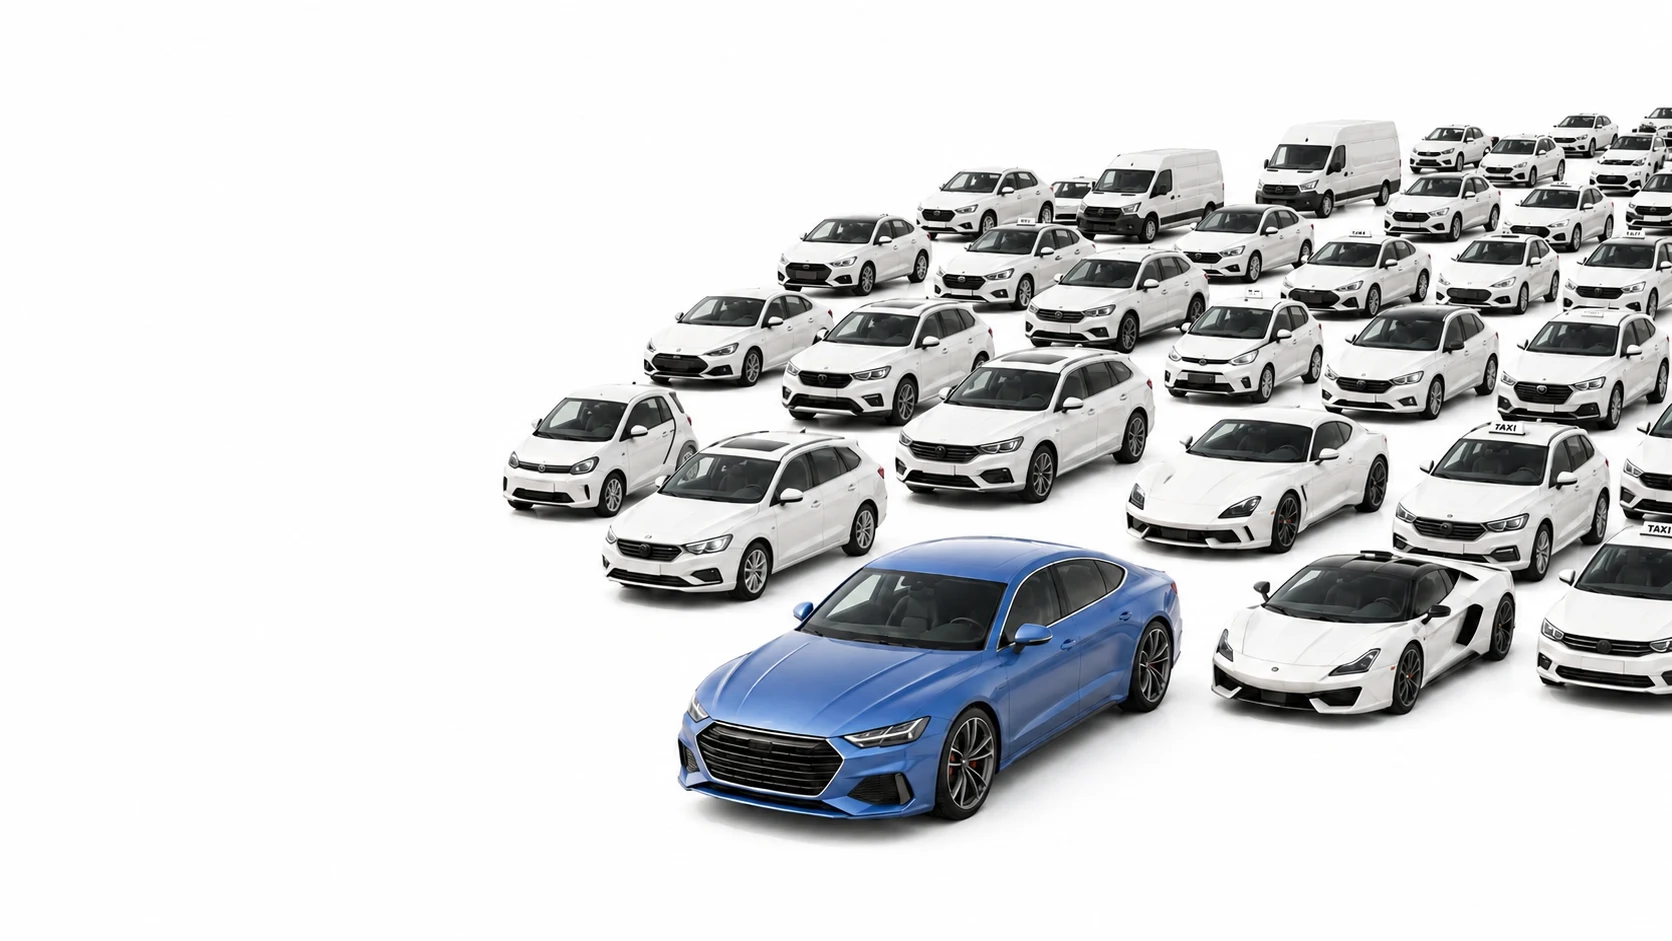
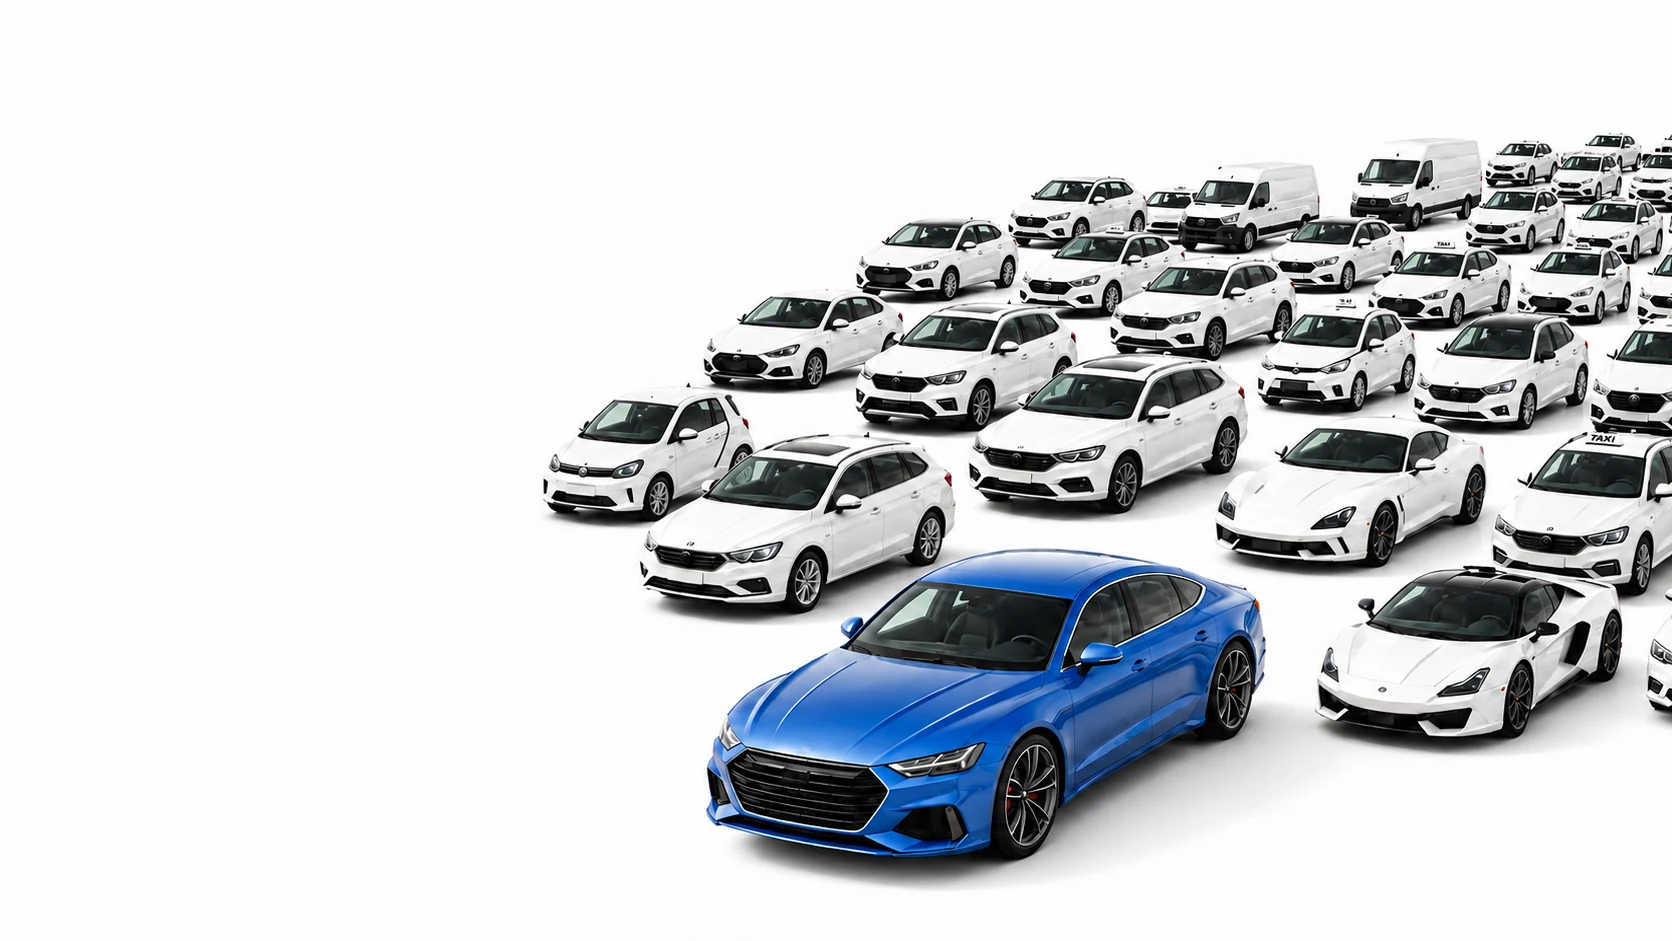
feat(assets): encode new hero and use-case fleet images as WebP
Convert seven uploaded PNG sources to production WebP assets:
- Hero desktop/mobile fleet backgrounds
- Five Einsatzwelten industry cards (rental, fleet, taxi, passenger transport, logistics)

Update intrinsic dimensions in the content model and QA expectations.
Remove raw PNG sources from assets/ so only compressed WebP ships to production.

diff --git a/e2e/landing-page-qa.spec.ts b/e2e/landing-page-qa.spec.ts
@@ -410,8 +410,8 @@ test.describe('public landing page', () => {
       expect(images).toHaveLength(5);
       for (const image of images) {
         expect(image.alt).toBeTruthy();
-        expect(image.width).toBe('1536');
-        expect(image.height).toBe('1024');
+        expect(image.width).toBe('1672');
+        expect(image.height).toBe('941');
         expect(image.loading).toBe('lazy');
         expect(image.decoding).toBe('async');
         expect(image.loaded).toBe(true);
